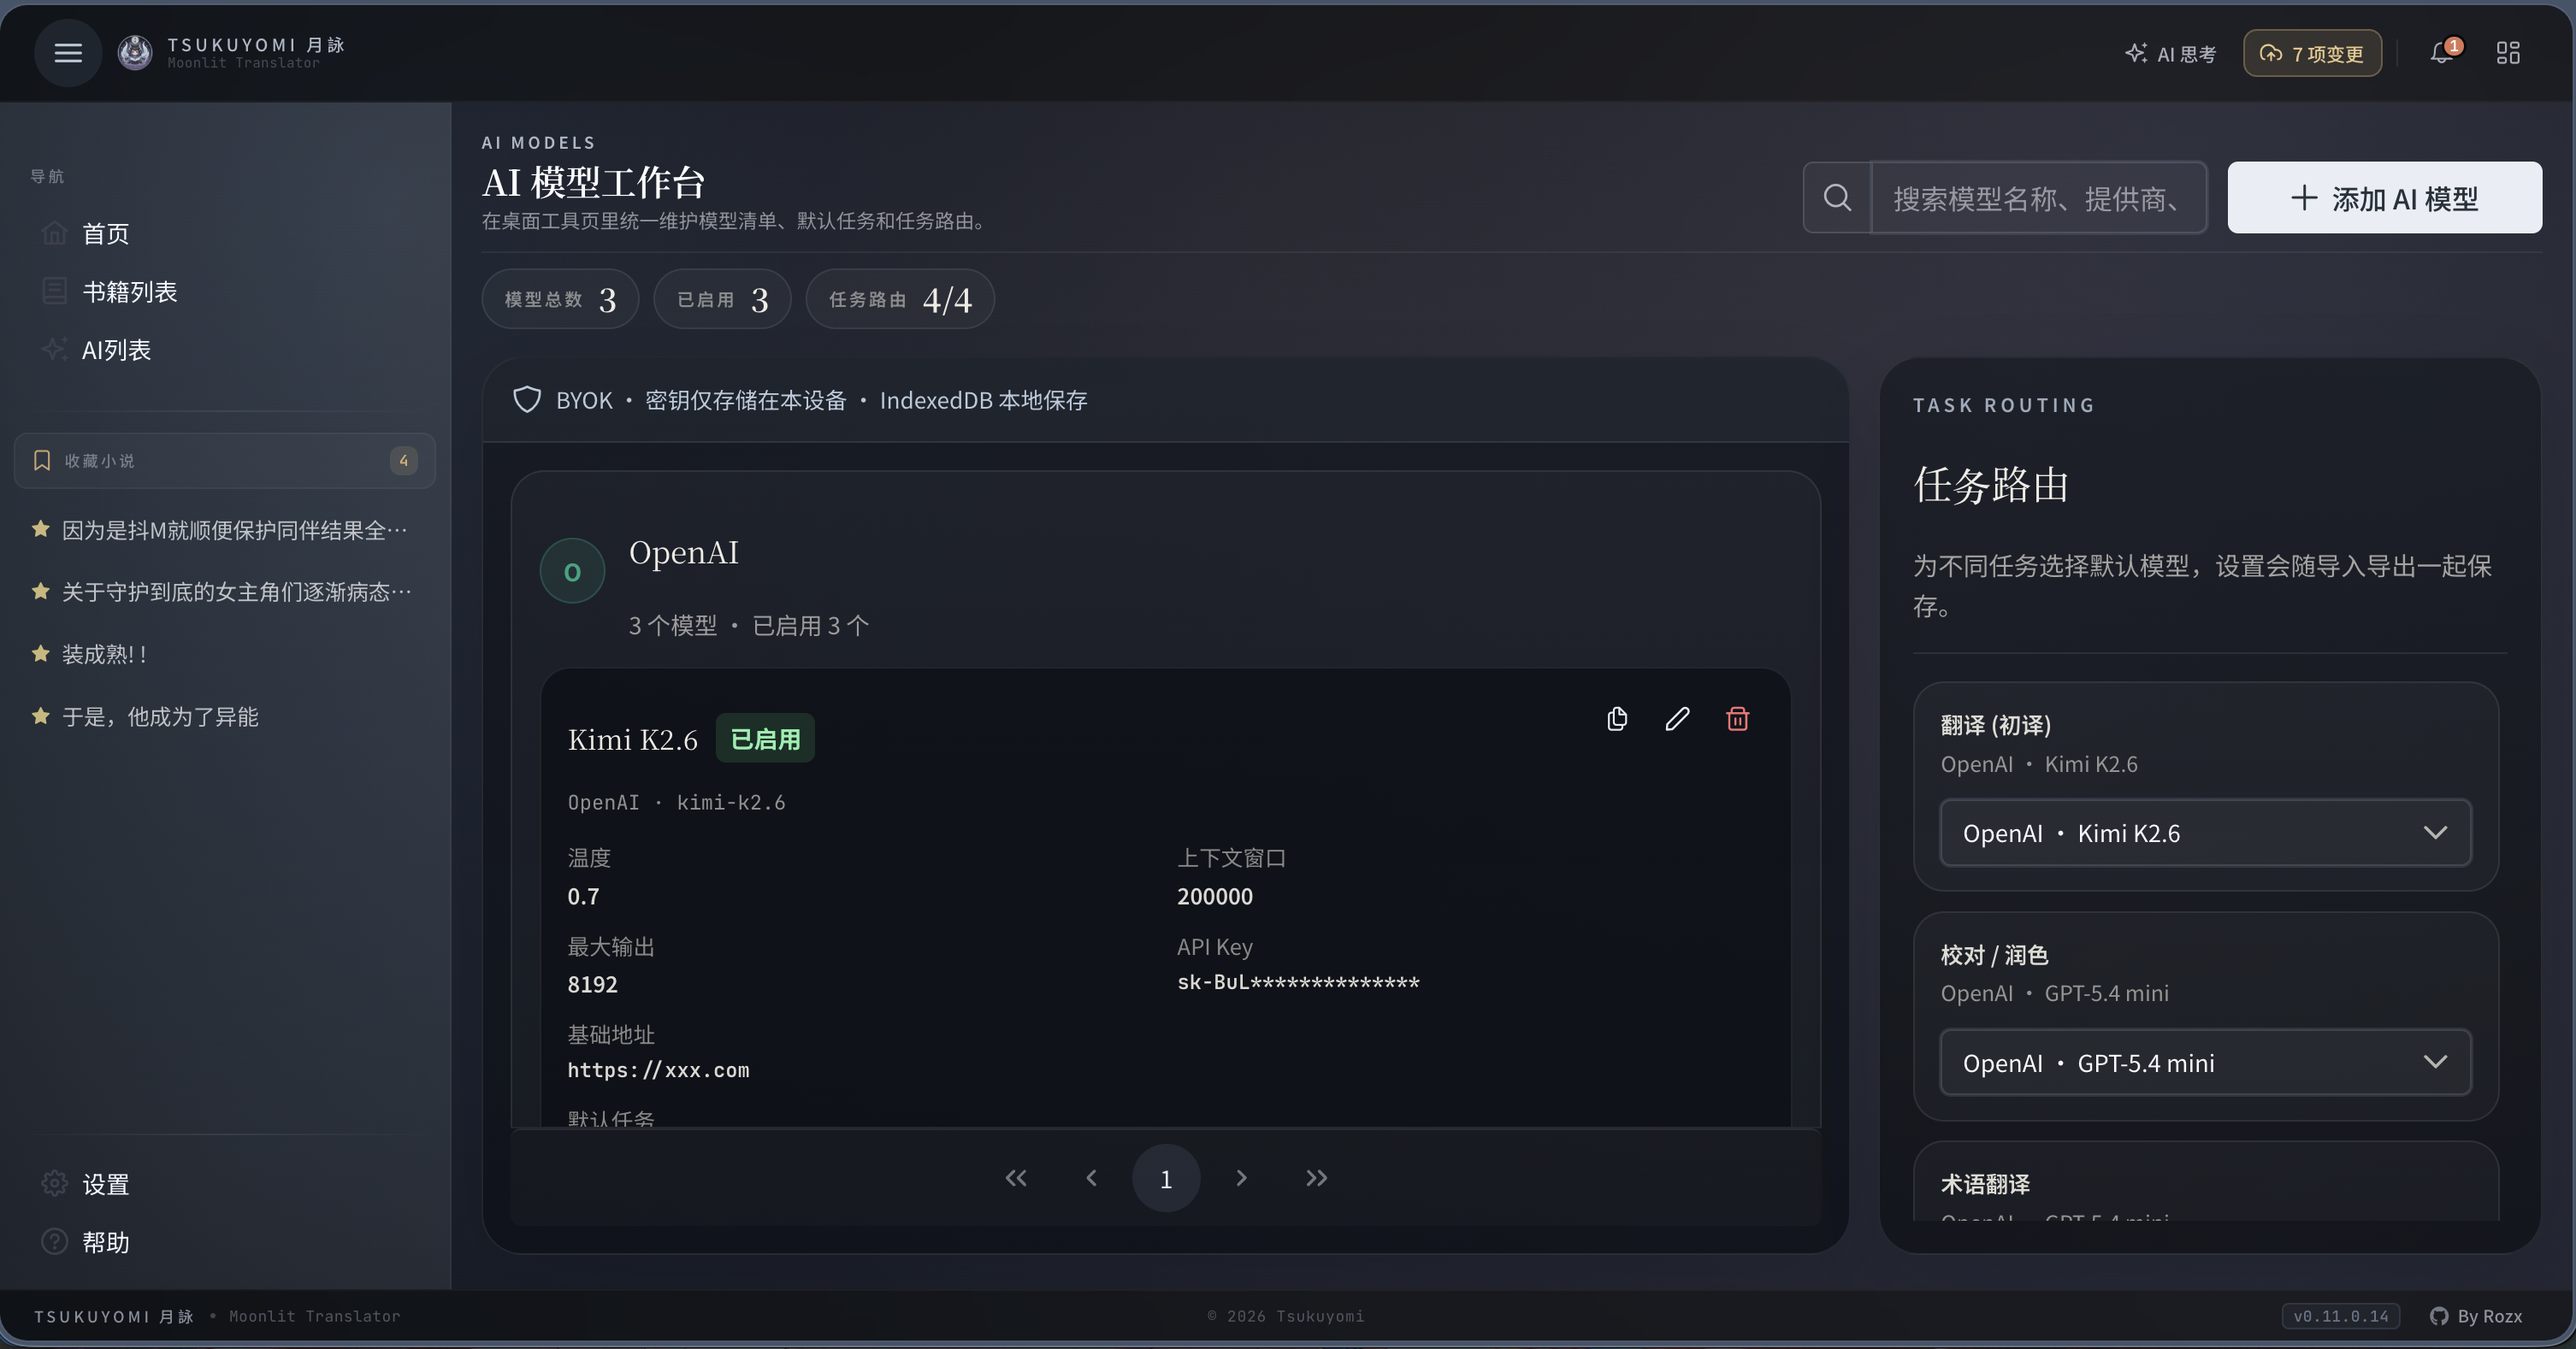
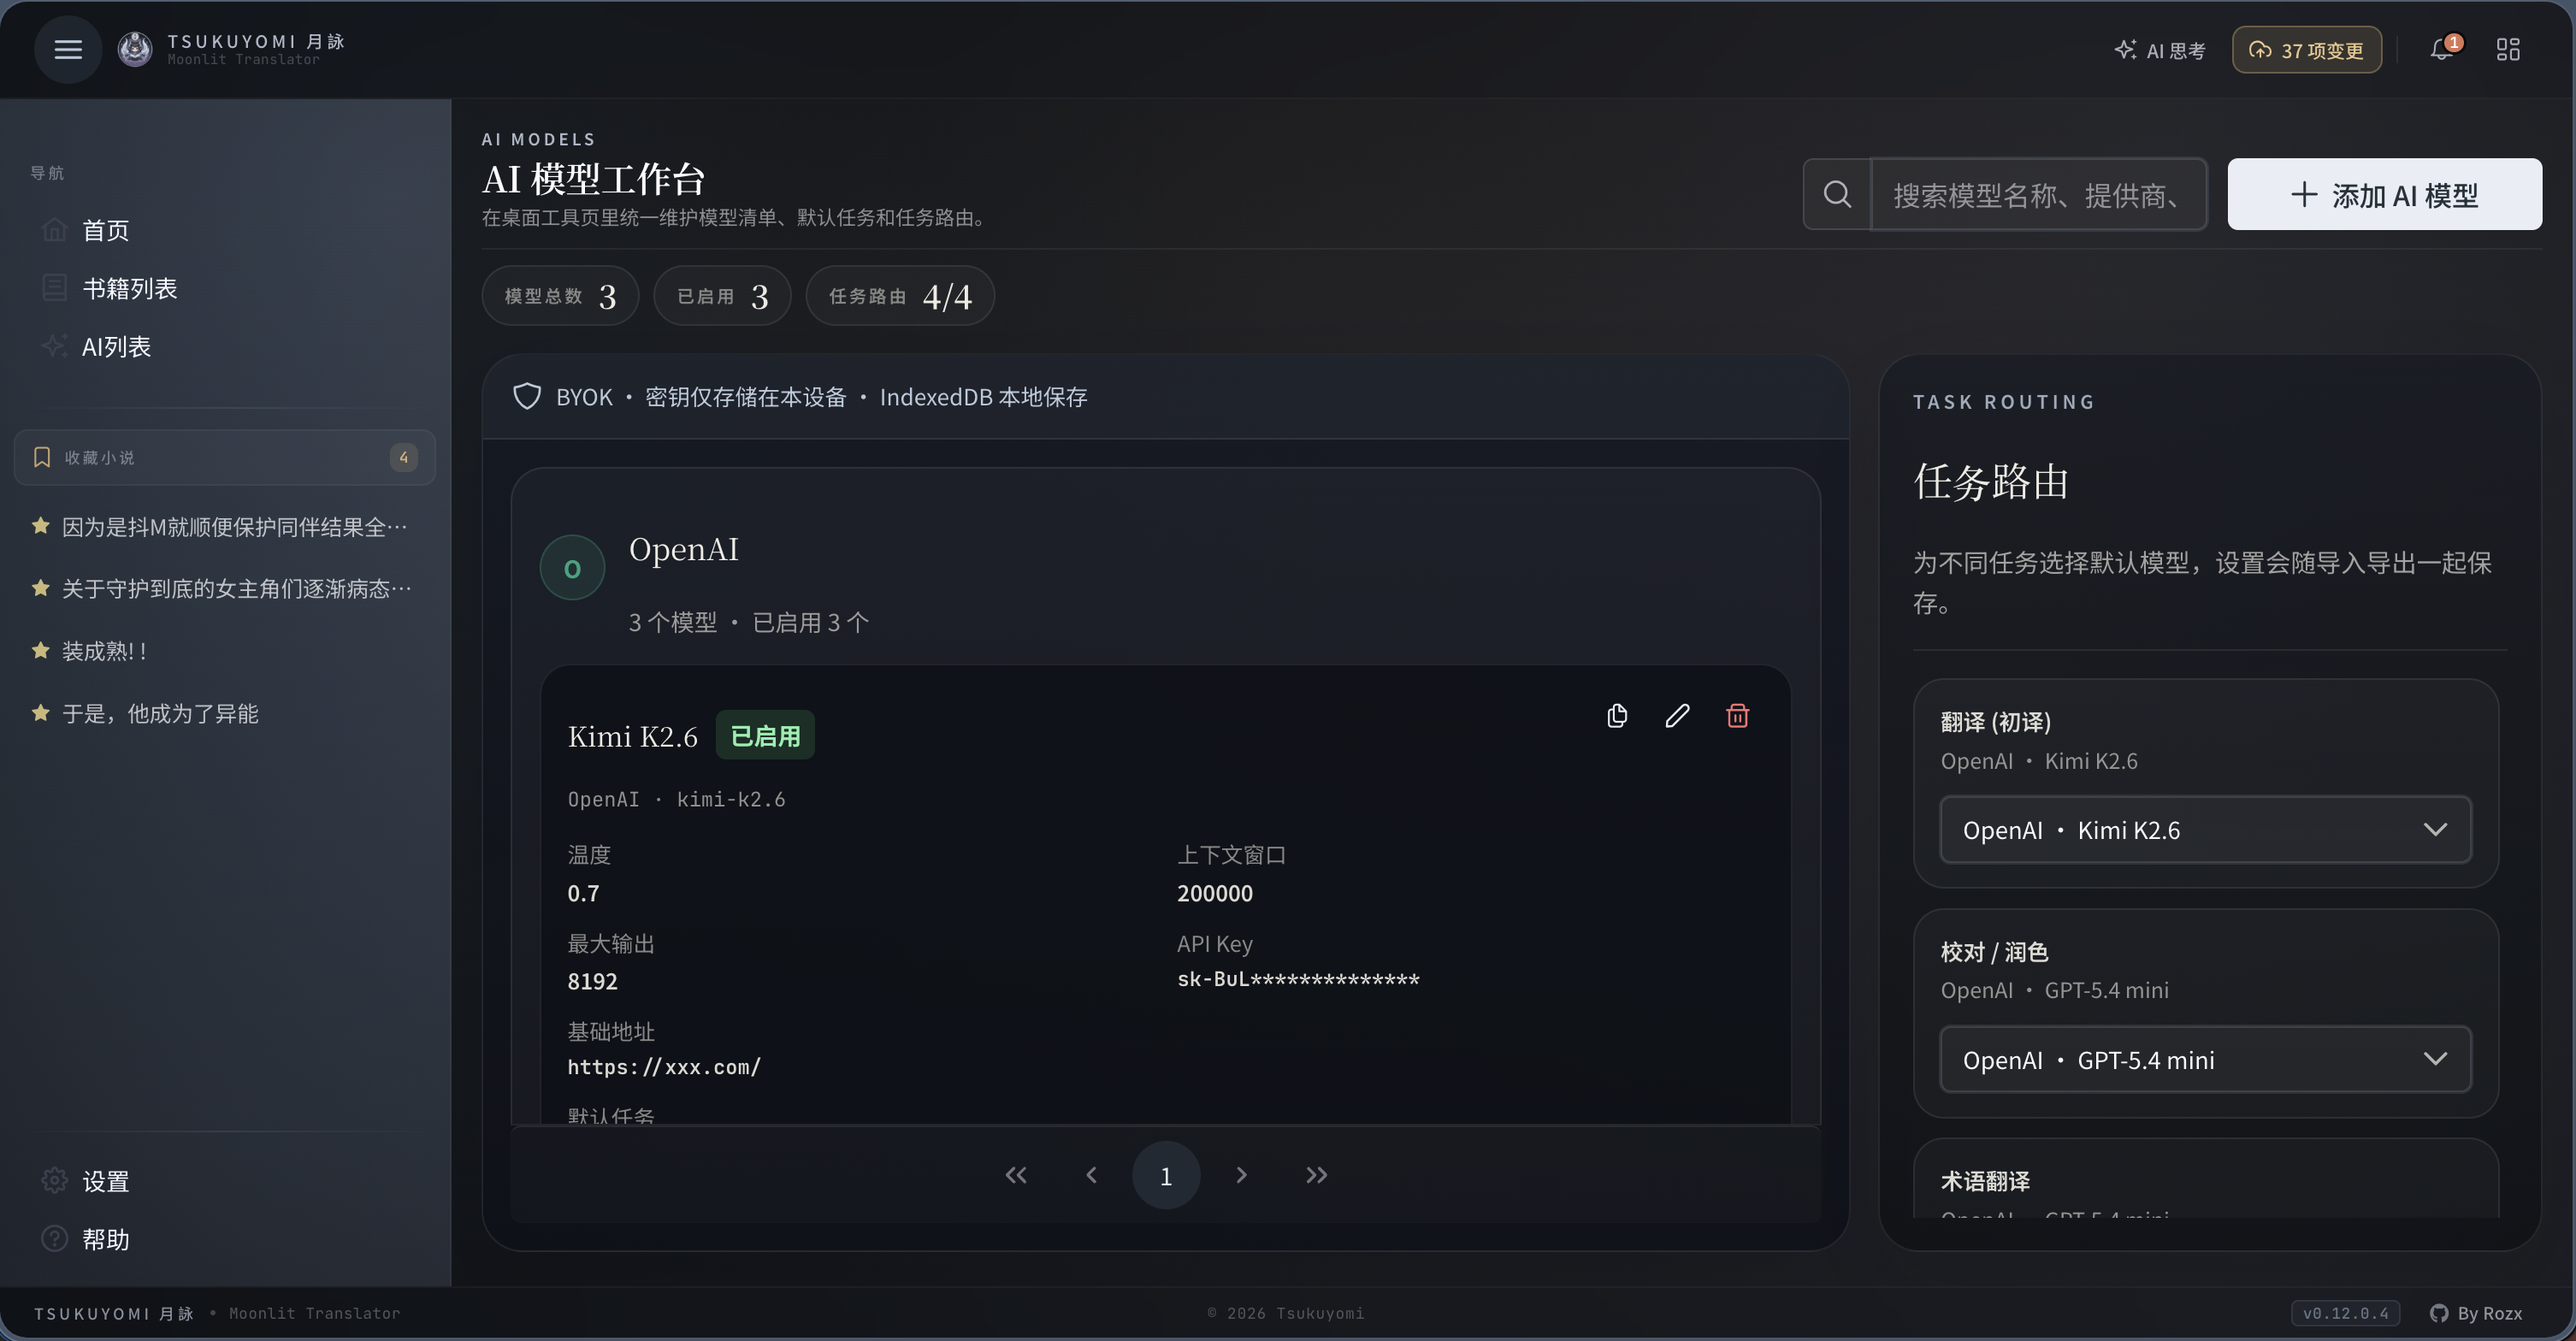
fix(main-layout): align desktop canvas overlay with mobile/tablet and refresh screenshots

diff --git a/src/layouts/main-layout/MainLayoutDesktop.vue b/src/layouts/main-layout/MainLayoutDesktop.vue
@@ -24,7 +24,7 @@ const ui = useUiStore();
         </div>
       </div>
 
-      <main class="desktop-shell-canvas">
+      <main class="desktop-shell-canvas bg-night-900/60">
         <RouterView />
       </main>
 
@@ -111,6 +111,5 @@ const ui = useUiStore();
   overflow-x: hidden;
   min-height: 0;
   height: 100%;
-  background: var(--shell-opacity-55); /* token: night-500 @ 55% */
 }
 </style>

diff --git a/src/constants/version.ts b/src/constants/version.ts
@@ -1,4 +1,4 @@
 // 应用版本号
 // 此文件由 scripts/bump-version.ts 自动生成，请勿手动修改
 // 如需更新版本，请运行: bun scripts/bump-version.ts <major|minor|patch|build|version>
-export const APP_VERSION = '0.12.0.4';
+export const APP_VERSION = '0.12.0.5';
